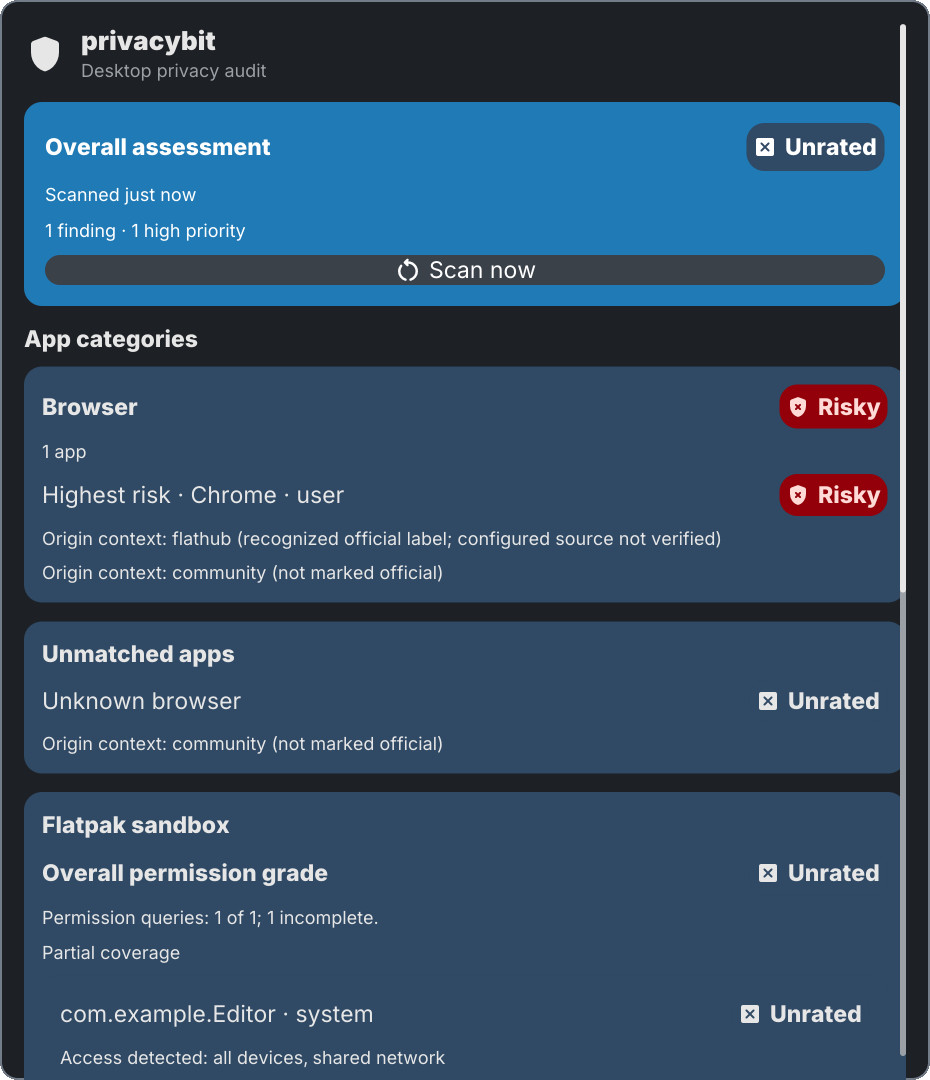
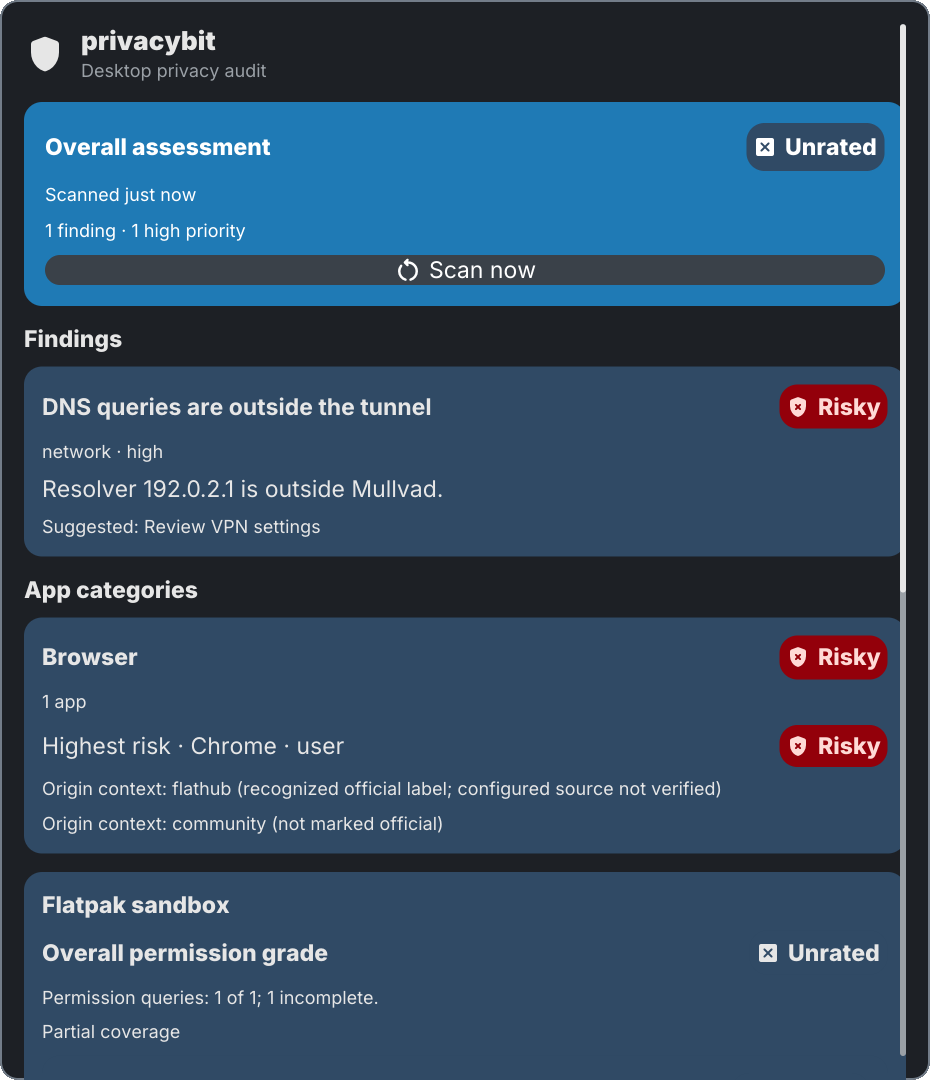
fix(privacy): lead the panel with findings and name coverage facts
The panel listed findings below every category card, the unmatched list
and the network card, so the achievable fixes were the last thing in it.
Findings now follow the summary. Unmatched apps, which are unrated
context, move below the network card.

Coverage notes showed raw fact IDs such as "explicit" and
"reverse_deps". Known facts now read as plain labels; an unknown fact
keeps its ID so a newer audit still says what it could not check.

Regenerate the committed screenshot, which still read "1 findings".

diff --git a/plugins/privacy/view.go b/plugins/privacy/view.go
@@ -88,18 +88,16 @@ func PanelTree(snapshot Snapshot, now time.Time, scanning bool, scanMessage stri
 		root.Children = append(root.Children, staleCard(snapshot, now, scanning))
 		return root
 	}
-	sections := []*v1.Node{categorySection(snapshot)}
-	if unmatched := unmatchedSection(snapshot); unmatched != nil {
-		sections = append(sections, unmatched)
-	}
+	// Lead with what can be fixed; unmatched apps are unrated context.
+	sections := []*v1.Node{findingSection(snapshot), categorySection(snapshot)}
 	if sandbox := sandboxSection(snapshot.Sandbox); sandbox != nil {
 		sections = append(sections, sandbox)
 	}
-	sections = append(sections,
-		networkSection(snapshot.Network),
-		findingSection(snapshot),
-		coverageSection(snapshot),
-	)
+	sections = append(sections, networkSection(snapshot.Network))
+	if unmatched := unmatchedSection(snapshot); unmatched != nil {
+		sections = append(sections, unmatched)
+	}
+	sections = append(sections, coverageSection(snapshot))
 	root.Children = append(root.Children, sections...)
 	return root
 }
@@ -395,7 +393,7 @@ func coverageSection(snapshot Snapshot) *v1.Node {
 		if item.Fact == "network.telemetry" {
 			continue
 		}
-		label := text(item.Fact, maxLabelBytes)
+		label := factLabel(item.Fact)
 		if len(item.Sources) > 0 {
 			label += " (" + text(strings.Join(item.Sources, ", "), maxSummaryBytes) + ")"
 		}
@@ -404,7 +402,7 @@ func coverageSection(snapshot Snapshot) *v1.Node {
 		}
 		children = append(children, &v1.Node{Kind: v1.KindText, Text: label, Size: "caption", Tone: v1.ToneSubtle})
 		if item.SourcesTruncated {
-			children = append(children, &v1.Node{Kind: v1.KindText, Text: fmt.Sprintf("Showing %d of %d sources for %s.", item.SourcesShown, item.SourcesTotal, text(item.Fact, maxLabelBytes)), Size: "caption", Tone: v1.ToneSubtle})
+			children = append(children, &v1.Node{Kind: v1.KindText, Text: fmt.Sprintf("Showing %d of %d sources for %s.", item.SourcesShown, item.SourcesTotal, factLabel(item.Fact)), Size: "caption", Tone: v1.ToneSubtle})
 		}
 	}
 	if snapshot.ReducedTruncated {
@@ -414,6 +412,32 @@ func coverageSection(snapshot Snapshot) *v1.Node {
 		children = append(children, &v1.Node{Kind: v1.KindText, Text: "Catalogue " + text(snapshot.CatalogRev, maxLabelBytes), Size: "caption", Tone: v1.ToneSubtle})
 	}
 	return card("privacy-coverage", children...)
+}
+
+// factLabel names the facts privacybit reports as reduced; an unknown fact
+// keeps its ID so a newer audit still says what it could not check.
+func factLabel(fact string) string {
+	switch fact {
+	case "explicit":
+		return "Install reason"
+	case "licence":
+		return "Licence"
+	case "origin":
+		return "Package origin"
+	case "reverse_deps":
+		return "Reverse dependencies"
+	case "signed":
+		return "Signature"
+	case "vendor":
+		return "Vendor"
+	case "version":
+		return "Version"
+	case "network.vpn":
+		return "VPN checks"
+	case "flatpak.sandbox":
+		return "Flatpak sandbox"
+	}
+	return text(fact, maxLabelBytes)
 }
 
 func gradeChip(grade, key string) *v1.Node {

diff --git a/plugins/privacy/view_test.go b/plugins/privacy/view_test.go
@@ -93,20 +93,48 @@ func TestPrivacyPanelUsesDistinctGradeFillsAndExplainsCoverage(t *testing.T) {
 }
 
 func TestPrivacyPanelShowsSourcesBehindReducedCoverage(t *testing.T) {
-	input := auditOutputWithReduced(t, []any{map[string]any{
-		"fact": "licence", "effect": "not supported by the listed sources",
-		"sources": []string{"desktop", "dpkg"},
-	}})
+	input := auditOutputWithReduced(t, []any{
+		map[string]any{
+			"fact": "licence", "effect": "not supported by the listed sources",
+			"sources": []string{"desktop", "dpkg"},
+		},
+		map[string]any{"fact": "reverse_deps", "effect": "not supported by the listed sources"},
+		map[string]any{"fact": "future.fact", "effect": "not checked"},
+	})
 	snapshot, err := ParseAuditOutput(input)
 	if err != nil {
 		t.Fatal(err)
 	}
 	root := PanelTree(snapshot, time.Date(2026, 10, 30, 0, 1, 0, 0, time.UTC), false, "")
-	if !treeHasText(root, "licence (desktop, dpkg) · not supported by the listed sources") {
-		t.Fatal("coverage card did not identify sources missing the licence fact")
+	for _, want := range []string{
+		"Licence (desktop, dpkg) · not supported by the listed sources",
+		"Reverse dependencies · not supported by the listed sources",
+		"future.fact · not checked",
+	} {
+		if !treeHasText(root, want) {
+			t.Errorf("coverage card omitted %q", want)
+		}
 	}
 	if findings := lint.Tree(root, v1.ViewPanel, panelWidth, panelHeight); len(findings) != 0 {
 		t.Fatalf("coverage panel does not fit: %+v", findings)
+	}
+}
+
+func TestPrivacyPanelLeadsWithFindingsAndKeepsUnmatchedLate(t *testing.T) {
+	now := time.Date(2026, 10, 23, 10, 0, 0, 0, time.UTC)
+	snapshot := testSnapshot("red", now)
+	snapshot.Unmatched = []App{{Name: "mystery-tool", Grade: "unknown"}}
+	snapshot.UnmatchedShown, snapshot.UnmatchedTotal = 1, 1
+	root := PanelTree(snapshot, now, false, "")
+	var keys []string
+	for _, child := range root.Children {
+		if child.Key != "" {
+			keys = append(keys, child.Key)
+		}
+	}
+	want := []string{"privacy-summary", "privacy-findings", "privacy-categories", "privacy-network", "privacy-unmatched", "privacy-coverage"}
+	if strings.Join(keys, ",") != strings.Join(want, ",") {
+		t.Fatalf("panel sections = %v, want %v", keys, want)
 	}
 }
 
